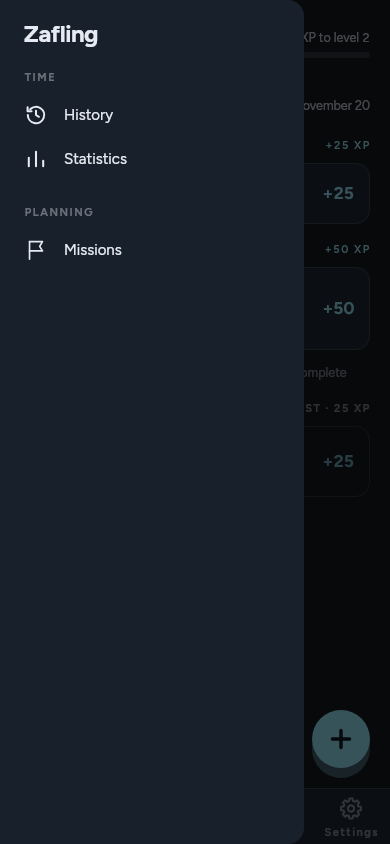
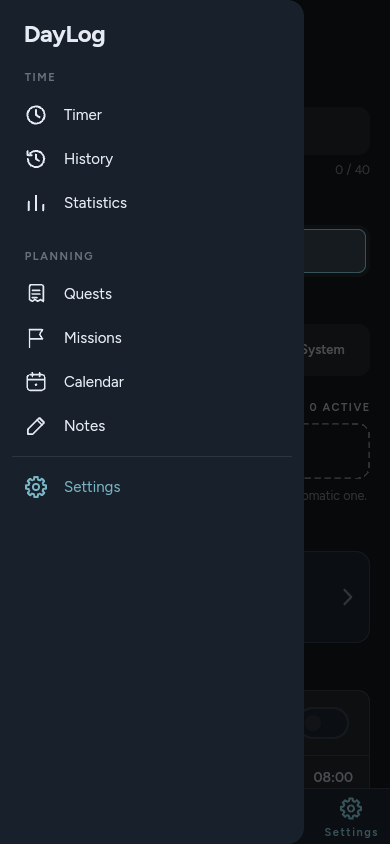
docs: refresh the Settings and drawer screenshots
Settings was 1300 px tall against 844 for the others, and both showed the old
name Zafling. They are taken from the running app now.

diff --git a/DOCS.md b/DOCS.md
@@ -38,7 +38,7 @@ daylog/
 ├── drift_schemas/           drift_schema_v1.json, the schema dump
 ├── test/                    mirrors lib/; goldens/, helpers/, architecture/, scripts/, fixtures of the import
 ├── scripts/                 check.sh, check-structure.sh, release.sh
-├── screenshots/             the README screenshots (English, dark theme, 780x1688)
+├── screenshots/             the README screenshots (English, dark theme, 390x844)
 ├── ios/, linux/             platform projects; the iOS project holds the Live Activity extension
 ├── .kiro/specs/             001-app-foundation, 002-time-tracking-port, 003-legacy-import (requirements, design, tasks)
 ├── .design/                 the visual design inherited from QuestLog: DESIGN.md, artboards/, screens/, icon/
